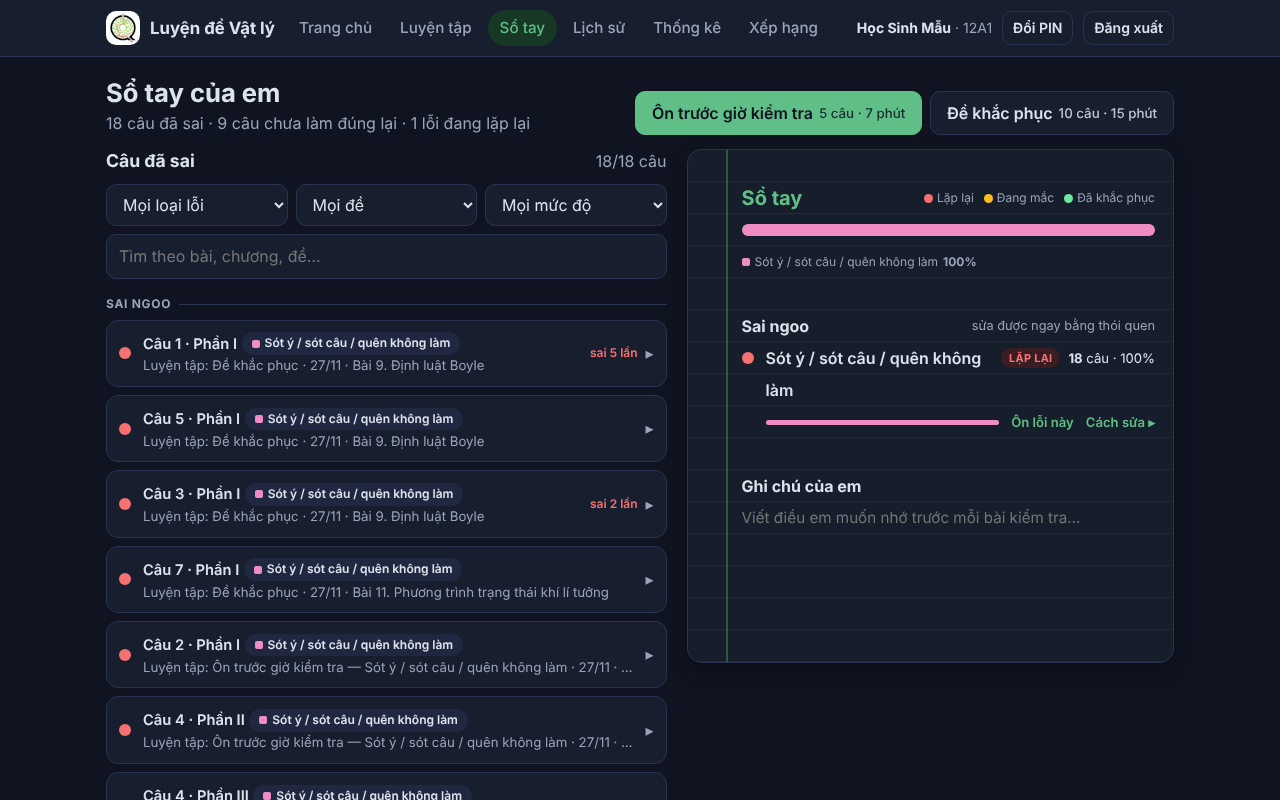
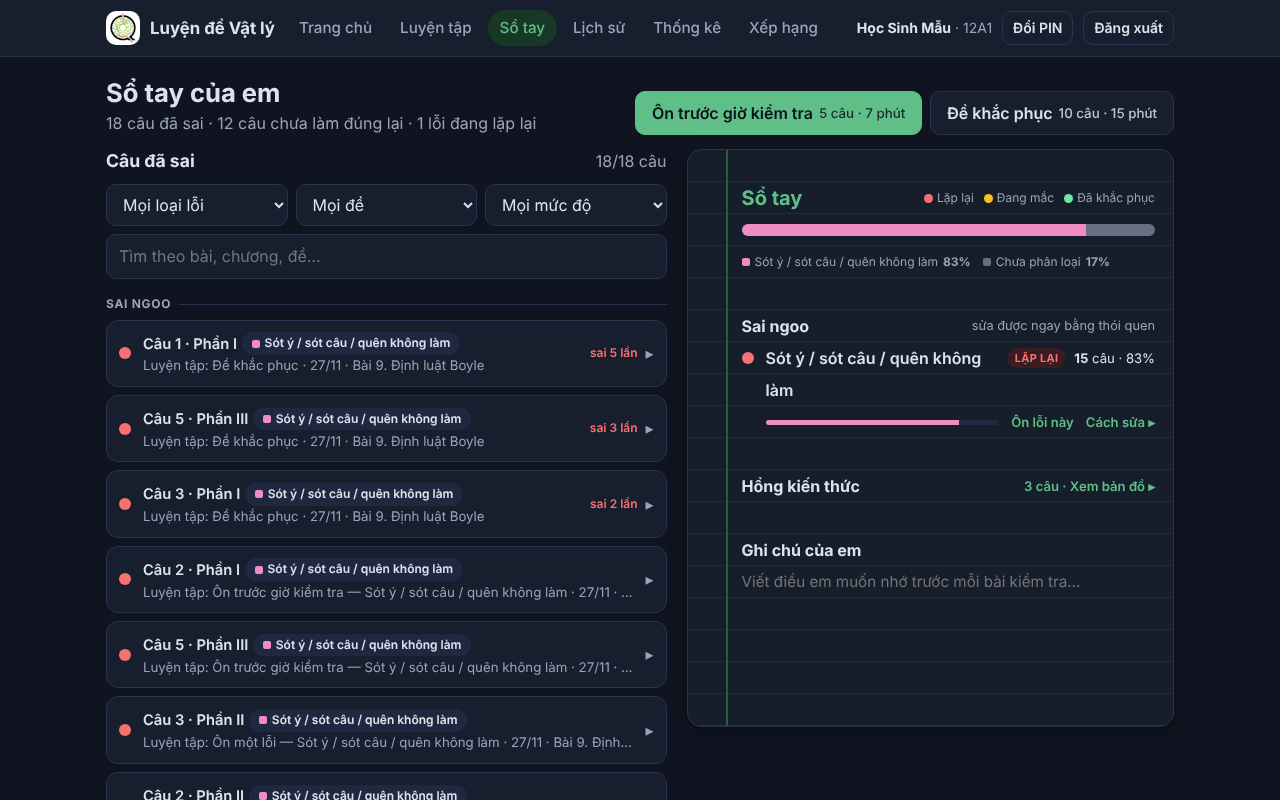
Pha 7c (kiểm thử): vòng 2 đang chạy — lưu bản dở (ảnh)
Claude-Session: https://claude.ai/code/session_01BBCuQ1QorEcsRk4FoU8uZP

diff --git a/tests/pha7c-kiem-thu.test.js b/tests/pha7c-kiem-thu.test.js
@@ -260,7 +260,9 @@ t('TC-7.19 đúng câu khắc phục ngày 1 → vàng; lần nữa cùng ngày 
   assert.strictEqual(a.mau, 'vang'); assert(a.has, 'đề có câu tương tự (khác X)');
   assert(Array.isArray(a.res.khacPhuc) && a.res.khacPhuc.some((k) => k.key === X && color(k.truoc) === 'do' && color(k.sau) === 'vang'), 'kết quả không báo X đỏ → vàng');
   assert.strictEqual(+a.it.lanSai, lan0, 'lanSai câu gốc đổi');
-  assert.strictEqual(run(true, '05/11/2026 15:00:00').mau, 'vang', 'cùng ngày vẫn vàng');
+  const b = run(true, '05/11/2026 15:00:00');
+  assert.strictEqual(b.mau, 'vang', 'cùng ngày vẫn vàng');
+  // (khacPhuc của lần này tính theo giờ nộp thật, trước khi bài được đổi ngày nộp → không so ở đây)
   const pre = ok(KP(w, { mau: 'MOT_LOI', ma: 'HONG' })); // dựng sẵn khi X còn vàng (câu xanh không còn được chọn làm câu gốc)
   const c = run(true, '06/11/2026 08:00:00');
   assert.strictEqual(c.mau, 'xanh', 'ngày 2 → xanh');
@@ -269,6 +271,7 @@ t('TC-7.19 đúng câu khắc phục ngày 1 → vàng; lần nữa cùng ngày 
   const d = run(false, '07/11/2026 08:00:00', pre);
   assert.strictEqual(d.mau, 'do', 'sai lại → đỏ');
   assert(d.res.khacPhuc.some((k) => k.key === X && color(k.sau) === 'do'), 'báo xanh → đỏ');
+  for (const r of [a, c, d]) assert(!(r.res.khacPhuc || []).some((k) => color(k.truoc) === color(k.sau)), 'vòng 2 (G-3): khacPhuc có mục không đổi màu');
 });
 t('TC-7.19 (biên) trong một bài có câu khắc phục đúng và sai cho cùng câu gốc → tính sai (đỏ); câu khắc phục sai thành mục riêng trong sổ', () => {
   const w = W7();
@@ -303,6 +306,26 @@ t('MOT_LOI ma=HONG khi sổ chỉ có câu "Chưa phân loại" (sổ tay xếp 
   examFromBank(w, 'Đề gốc', [X], new Set([X]));
   const r = KP(w, { mau: 'MOT_LOI', ma: 'HONG' });
   info('sổ chỉ có câu chưa phân loại → MOT_LOI HONG: ' + (r.ok ? r.data.questions.length + ' câu' : '"' + r.error + '"') + '; MUOI_CAU: ' + (KP(w, { mau: 'MUOI_CAU' }).ok ? 'dựng được' : 'không'));
+  assert(r.ok && r.data.questions.length === 5 && tokOf(r.data).goc.every((g) => g === X), 'vòng 2 (G-1): Ôn phần hổng kiến thức phải gồm câu chưa phân loại');
+});
+t('Vòng 2 (R-1): làm lại chính câu gốc SAI + câu tương tự ĐÚNG trong cùng bài → câu gốc đỏ (hai ngày liền vẫn đỏ); khacPhuc chỉ câu đổi màu (G-3)', () => {
+  const w = W7();
+  const X = bai9(w).filter((p) => p.loai === 'TN')[0].maKho;
+  examFromBank(w, 'Đề gốc X', [X], new Set([X])); stampLast(w, 'KetQua', '01/11/2026 08:00:00');
+  // đưa X lên vàng trước bằng một bài đúng hết
+  let st = ok(KP(w, { mau: 'MOT_LOI', ma: 'HONG' })); doKP(w, st, () => true); stampLast(w, 'KetQuaLuyenTap', '02/11/2026 08:00:00');
+  assert.strictEqual(color(byKey(nb(w))[X].mau), 'vang');
+  for (const day of ['03', '04']) {
+    let p; let tries = 0;
+    do { st = ok(KP(w, { mau: 'MOT_LOI', ma: 'HONG' })); p = tokOf(st); } while (!p.qids.includes(X) && ++tries < 20);
+    assert(p.qids.includes(X), 'đề khắc phục phải có chính câu gốc X');
+    const res = doKP(w, st, (q, qid) => qid !== X);
+    stampLast(w, 'KetQuaLuyenTap', day + '/11/2026 08:00:00');
+    const m = color(byKey(nb(w))[X].mau);
+    info(`ngày ${day}: X ${m}; khacPhuc ${JSON.stringify((res.khacPhuc || []).map((k) => k.truoc + '→' + k.sau))}`);
+    assert.strictEqual(m, 'do', 'câu gốc làm sai trong bài phải đỏ (ngày ' + day + ')');
+    assert(!(res.khacPhuc || []).some((k) => color(k.truoc) === color(k.sau)), 'khacPhuc có mục không đổi màu');
+  }
 });
 console.log('\nTC-7.20 — ON_NHANH, MOT_LOI');
 t('TC-7.20 ON_NHANH: 5 câu, 420 giây, nhắm loại lỗi đỏ nặng nhất', () => {

diff --git a/tests/pha7c-kiem-thu.e2e.js b/tests/pha7c-kiem-thu.e2e.js
@@ -181,6 +181,10 @@ async function runNew(browser) {
     // câu gốc: bài luyện "Bài 9" bỏ trống (đã có lời giải ngay → được làm câu gốc)
     const s0 = await api(srv.base, 'practiceStart', { token: st, kieu: 'TU_TAO', bai: ['Bài 9. Định luật Boyle'], so: { TN: 5, DS: 1, TL: 1 }, phut: 10 });
     await api(srv.base, 'submitExam', { token: st, attemptToken: s0.attemptToken, answers: {} });
+    // thêm câu "chưa phân loại": một bài luyện Bài 11 chọn sai (không bỏ trống)
+    const s1 = await api(srv.base, 'practiceStart', { token: st, kieu: 'TU_TAO', bai: ['Bài 11. Phương trình trạng thái khí lí tưởng'], so: { TN: 5 }, phut: 5 });
+    const a1 = {}; s1.questions.forEach((q) => { const r = BY_ND.get(q.noiDung); a1[q.stt] = q.loai === 'TN' && r ? 'ABCD'.replace(r[13], '')[0] : ''; });
+    await api(srv.base, 'submitExam', { token: st, attemptToken: s1.attemptToken, answers: a1 });
     const nb0 = await api(srv.base, 'notebook', { token: st });
     console.log('      · sổ tay: ' + nb0.items.length + ' câu sai (' + [...new Set(nb0.items.map((x) => x.loi.ma))].join(',') + ')');
 
@@ -231,6 +235,14 @@ async function runNew(browser) {
     verdict('Nút (Luyện tập)', b2.includes('ON_NHANH') && b2.includes('MUOI_CAU') && d3.questions && d3.questions.length === 5 && +d3.durationSec === 420, `trang Luyện tập có ${JSON.stringify(b2)}; "Ôn trước giờ kiểm tra" → ${d3.questions && d3.questions.length} câu, ${d3.durationSec} giây`);
     await submitUI(page);
     verdict('Không tràn ngang', await noHScroll(page), '1280 sáng: trang kết quả khắc phục');
+    // Vòng 2 (G-1): "Ôn phần hổng kiến thức" gồm câu chưa phân loại
+    await page.goto(srv.base + '/#/so-tay'); await page.waitForSelector('#nbSplit .nb-item'); await page.waitForTimeout(500);
+    const hb = await page.$('#nbBook [data-nbstart="MOT_LOI"][data-ma="HONG"]');
+    let hd = null;
+    if (hb) { const vis = await hb.isVisible(); if (!vis) await page.click('#nbHkt summary'); await page.waitForTimeout(200); hd = await startVia(page, '#nbBook [data-nbstart="MOT_LOI"][data-ma="HONG"]'); }
+    const nCR = (await api(srv.base, 'notebook', { token: st })).items.filter((x) => x.loi.ma === 'CHUA_RO').length;
+    verdict('Vòng 2 (G-1)', !!hb && hd && hd.questions && hd.questions.length === 5, `sổ có ${nCR} câu chưa phân loại → nút "${hb ? (await hb.textContent()).trim() : '—'}" có, bấm → ${hd && hd.questions ? hd.questions.length + ' câu' : JSON.stringify(hd)}`);
+    if (hd && hd.questions) await shot(page, '09-on-hong-kien-thuc-1280');
     await ctx.close();
 
     // ---- 390 sáng/tối, 1280 tối ----
